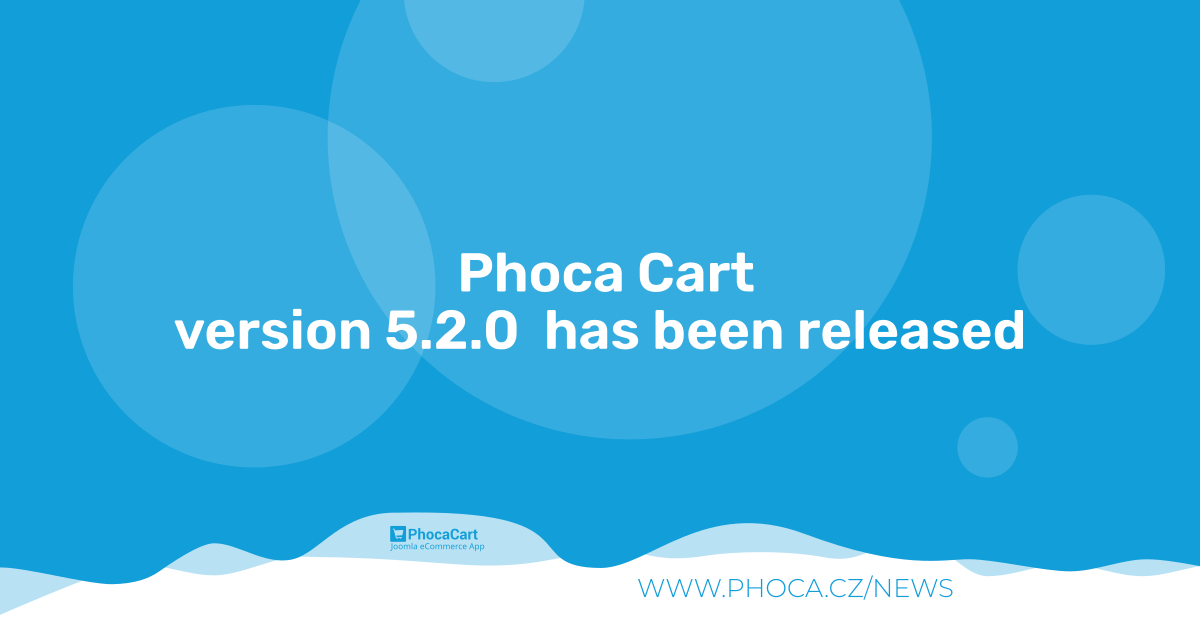
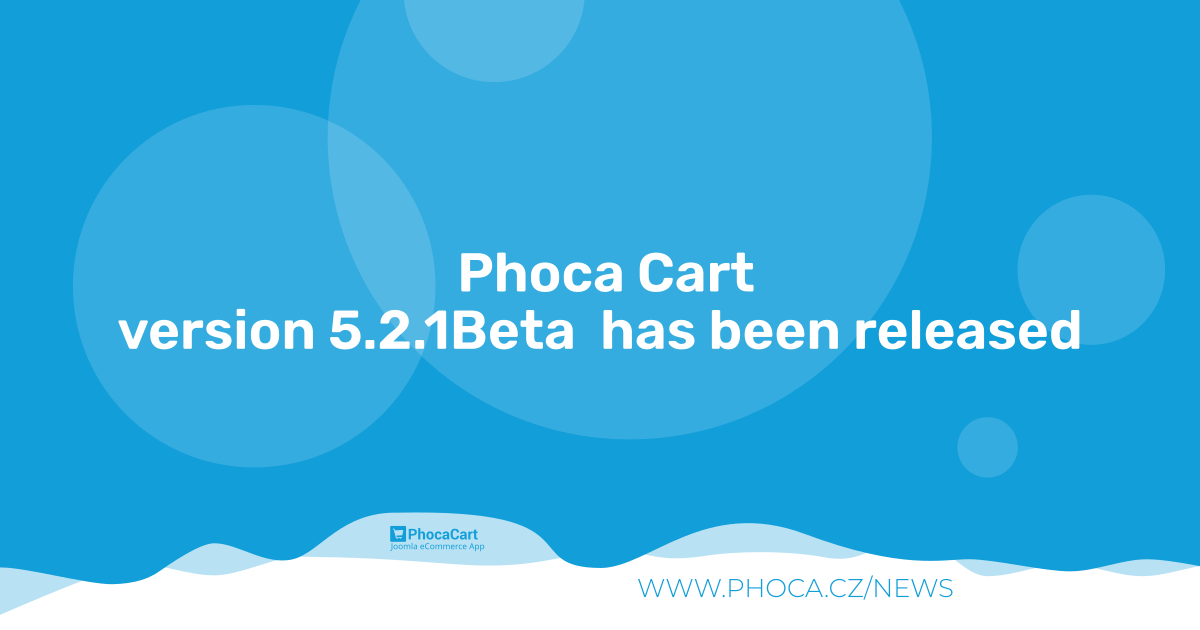
5.2.1Beta

Changed region(s): [[0.0925, 0.4825, 0.925, 0.573]]

diff --git a/media/js/phoca/jquery.phocaswapimage.js b/media/js/phoca/jquery.phocaswapimage.js
@@ -15,7 +15,7 @@ jQuery(document).ready(function() {
 		var phProductIdName	= jQuery(this).data('product-id-name');
 		var phProductImg	= '.phjProductImage' + phProductIdName;
 		var phProductSource	= '.phjProductSource' + phProductIdName;// Webp source
-		var phProductHref	= '.phjProductHref' + phProductIdName;
+		var phProductHref	= '.phjProductHref' + phProductIdName + '.phImageGalleryHref';//phImageGalleryHref diff large and small e.g. in Photoswipe
 
 		var phDefaultSrc 	= jQuery(phProductImg).data('image');// image includes data-image attribute
 		var phDefaultHref 	= jQuery(phProductHref).data('href');// image includes data-image attribute
@@ -50,16 +50,30 @@ jQuery(document).ready(function() {
 			jQuery(phProductHref).attr('href', phNewHref);
 			jQuery(phProductImg).attr('src', phNewSrc);
 			jQuery(phProductSource).attr('srcset', phNewSrc);//webp
+
+
+			jQuery(phProductHref).attr('data-href', phNewHref);
+			jQuery(phProductImg).attr('data-image', phNewSrc);
+			jQuery(phProductImg).attr('data-image-large', phNewSrc);
+
 		} else if (!phNewSrc && phSelectedSrc) {
 			// New image not found but there is some selected image yet (e.g. selected previously in other select box)
 			jQuery(phProductHref).attr('href', phSelectedHref);
 			jQuery(phProductImg).attr('src', phSelectedSrc);
 			jQuery(phProductSource).attr('srcset', phSelectedSrc);//webp
+
+			jQuery(phProductHref).attr('data-href', phSelectedHref);
+			jQuery(phProductImg).attr('data-image', phSelectedSrc);
+			jQuery(phProductImg).attr('data-image-large', phSelectedSrc);
 		} else {
 			// Return back to default image (no new image, no selected image by other select box)
 			jQuery(phProductHref).attr('href', phDefaultHref);
 			jQuery(phProductImg).attr('src', phDefaultSrc);
 			jQuery(phProductSource).attr('srcset', phDefaultSrc);//webp
+
+			jQuery(phProductHref).attr('data-href', phDefaultHref);
+			jQuery(phProductImg).attr('data-image', phDefaultSrc);
+			jQuery(phProductImg).attr('data-image-large', phDefaultSrc);
 		}
 
 	})

diff --git a/media/js/phoca/jquery.phocaswapimage.min.js b/media/js/phoca/jquery.phocaswapimage.min.js
@@ -1,1 +1,1 @@
-jQuery(document).ready(function(){jQuery(document).on("change",".phjProductAttribute",function(){var t=jQuery(this).data("product-id-name"),r=".phjProductImage"+t,e=".phjProductSource"+t,t=".phjProductHref"+t,u=jQuery(r).data("image"),a=jQuery(t).data("href"),c=jQuery(this).find(":selected,:checked").data("image-option"),d=!1,j=(jQuery(this).closest("form").find(".phjProductAttribute").each(function(){var t=jQuery(this).find(":selected,:checked").data("image-option");t&&(d=t)}),c),o=d;c?(jQuery(t).attr("href",j),jQuery(r).attr("src",c),jQuery(e).attr("srcset",c)):!c&&d?(jQuery(t).attr("href",o),jQuery(r).attr("src",d),jQuery(e).attr("srcset",d)):(jQuery(t).attr("href",a),jQuery(r).attr("src",u),jQuery(e).attr("srcset",u))})});
+jQuery(document).ready(function(){jQuery(document).on("change",".phjProductAttribute",function(){var t=jQuery(this).data("product-id-name"),r=".phjProductImage"+t,e=".phjProductSource"+t,t=".phjProductHref"+t+".phImageGalleryHref",a=jQuery(r).data("image"),u=jQuery(t).data("href"),d=jQuery(this).find(":selected,:checked").data("image-option"),j=!1,y=(jQuery(this).closest("form").find(".phjProductAttribute").each(function(){var t=jQuery(this).find(":selected,:checked").data("image-option");t&&(j=t)}),d),c=j;d?(jQuery(t).attr("href",y),jQuery(r).attr("src",d),jQuery(e).attr("srcset",d),jQuery(t).attr("data-href",y),jQuery(r).attr("data-image",d),jQuery(r).attr("data-image-large",d)):!d&&j?(jQuery(t).attr("href",c),jQuery(r).attr("src",j),jQuery(e).attr("srcset",j),jQuery(t).attr("data-href",c),jQuery(r).attr("data-image",j),jQuery(r).attr("data-image-large",j)):(jQuery(t).attr("href",u),jQuery(r).attr("src",a),jQuery(e).attr("srcset",a),jQuery(t).attr("data-href",u),jQuery(r).attr("data-image",a),jQuery(r).attr("data-image-large",a))})});

diff --git a/media/css/main.css b/media/css/main.css
@@ -2394,7 +2394,8 @@ img.ph-lazyload:not([src]) {
     stroke: #f5f5f5;
 }
 .btn.btn-secondary .pc-si {
-    stroke: #5f5f5f;
+    /*stroke: #5f5f5f;*/
+    stroke: currentColor;
 }
 
 .pc-si-ok-circle {

diff --git a/site/views/item/tmpl/default.php b/site/views/item/tmpl/default.php
@@ -187,7 +187,7 @@ if (!empty($x) && isset($x->id) && (int)$x->id > 0) {
 			if ($this->t['display_webp_images'] == 1) {
 				$linkS = Uri::base(true) . '/' . $imageS->rel_webp;
 			}
-			echo '<a href="' . $link . '" ' . $this->t['image_rel'] . ' class="' . $this->t['image_class'] . ' phjProductHref' . $idName . ' phImageFullHref" data-href="' . $link . '" data-href-s="' . $linkS . '">';
+			echo '<a href="' . $link . '" ' . $this->t['image_rel'] . ' class="' . $this->t['image_class'] . ' phjProductHref' . $idName . ' phImageFullHref phImageGalleryHref" data-href="' . $link . '" data-href-s="' . $linkS . '">';
 
 			$d = array();
 			$d['t'] = $this->t;
@@ -668,9 +668,12 @@ if (!empty($x) && isset($x->id) && (int)$x->id > 0) {
 	$tabO	= '';
 	$tabLiO	= '';
 
+
 	// DESCRIPTION
 	if (isset($x->description_long) && $x->description_long != '') {
-		$tabLiO .= '<li class="'.$this->s['c']['nav-item'].' '.$activeTab.'"><a href="#phdescription" data-bs-toggle="tab" class="'.$this->s['c']['nav-link'].' '.$active.'">'.Text::_('COM_PHOCACART_DESCRIPTION').'</a></li>';
+
+        $tabAnchor = $this->s['c']['class-type'] == 'uikit' ? '#' : '#phdescription';
+		$tabLiO .= '<li class="'.$this->s['c']['nav-item'].' '.$activeTab.'"><a href="'.$tabAnchor.'" data-bs-toggle="tab" class="'.$this->s['c']['nav-link'].' '.$active.'">'.Text::_('COM_PHOCACART_DESCRIPTION').'</a></li>';
 
 		$tabO 	.= '<div class="'.$this->s['c']['tabpane'].' ph-tab-pane '.$active.'" id="phdescription">';
 		$tabO	.= HTMLHelper::_('content.prepare', $x->description_long);
@@ -680,7 +683,8 @@ if (!empty($x) && isset($x->id) && (int)$x->id > 0) {
 
 	// FEATURES
 	if (isset($x->features) && $x->features != '') {
-		$tabLiO .= '<li class="'.$this->s['c']['nav-item'].' '.$activeTab.'"><a href="#phfeatures" data-bs-toggle="tab" class="'.$this->s['c']['nav-link'].' '.$active.'">'.Text::_('COM_PHOCACART_FEATURES').'</a></li>';
+        $tabAnchor = $this->s['c']['class-type'] == 'uikit' ? '#' : '#phfeatures';
+		$tabLiO .= '<li class="'.$this->s['c']['nav-item'].' '.$activeTab.'"><a href="'.$tabAnchor.'" data-bs-toggle="tab" class="'.$this->s['c']['nav-link'].' '.$active.'">'.Text::_('COM_PHOCACART_FEATURES').'</a></li>';
 
 		$tabO 	.= '<div class="'.$this->s['c']['tabpane'].' ph-tab-pane '.$active.'" id="phfeatures">';
 		$tabO	.= HTMLHelper::_('content.prepare', $x->features);
@@ -690,7 +694,8 @@ if (!empty($x) && isset($x->id) && (int)$x->id > 0) {
 
 	// VIDEO
 	if (isset($x->video) && $x->video != '') {
-		$tabLiO .= '<li class="'.$this->s['c']['nav-item'].' '.$activeTab.'"><a href="#phvideo" data-bs-toggle="tab" class="'.$this->s['c']['nav-link'].' '.$active.'">'.Text::_('COM_PHOCACART_VIDEO').'</a></li>';
+        $tabAnchor = $this->s['c']['class-type'] == 'uikit' ? '#' : '#phvideo';
+		$tabLiO .= '<li class="'.$this->s['c']['nav-item'].' '.$activeTab.'"><a href="'.$tabAnchor.'" data-bs-toggle="tab" class="'.$this->s['c']['nav-link'].' '.$active.'">'.Text::_('COM_PHOCACART_VIDEO').'</a></li>';
 
 		$tabO 	.= '<div class="'.$this->s['c']['tabpane'].' ph-tab-pane '.$active.'" id="phvideo">';
 		$tabO	.= PhocacartRenderFront::displayVideo($x->video);
@@ -700,7 +705,8 @@ if (!empty($x) && isset($x->id) && (int)$x->id > 0) {
 
 	// SPECIFICATION
 	if (!empty($this->t['specifications'])){
-		$tabLiO .= '<li class="'.$this->s['c']['nav-item'].' '.$activeTab.'"><a href="#phspecification" data-bs-toggle="tab" class="'.$this->s['c']['nav-link'].' '.$active.'">'.Text::_('COM_PHOCACART_SPECIFICATIONS').'</a></li>';
+        $tabAnchor = $this->s['c']['class-type'] == 'uikit' ? '#' : '#phspecification';
+		$tabLiO .= '<li class="'.$this->s['c']['nav-item'].' '.$activeTab.'"><a href="'.$tabAnchor.'" data-bs-toggle="tab" class="'.$this->s['c']['nav-link'].' '.$active.'">'.Text::_('COM_PHOCACART_SPECIFICATIONS').'</a></li>';
 		$tabO 	.= '<div class="'.$this->s['c']['tabpane'].' ph-tab-pane '.$active.'" id="phspecification">';
 
 
@@ -734,7 +740,8 @@ if (!empty($x) && isset($x->id) && (int)$x->id > 0) {
 
 	// REVIEWS
 	if ($this->t['enable_review'] > 0) {
-		$tabLiO .= '<li class="'.$this->s['c']['nav-item'].' '.$activeTab.'"><a href="#phreview" data-bs-toggle="tab" class="'.$this->s['c']['nav-link'].' '.$active.'">'.Text::_('COM_PHOCACART_REVIEWS').'</a></li>';
+        $tabAnchor = $this->s['c']['class-type'] == 'uikit' ? '#' : '#phreview';
+		$tabLiO .= '<li class="'.$this->s['c']['nav-item'].' '.$activeTab.'"><a href="'.$tabAnchor.'" data-bs-toggle="tab" class="'.$this->s['c']['nav-link'].' '.$active.'">'.Text::_('COM_PHOCACART_REVIEWS').'</a></li>';
 		$tabO 	.= '<div class="'.$this->s['c']['tabpane'].' ph-tab-pane '.$active.'" id="phreview">';
 
 		if (!empty($this->t['reviews'])) {
@@ -854,7 +861,8 @@ if (!empty($x) && isset($x->id) && (int)$x->id > 0) {
                 continue;
             }
 
-            $tabLiO .= '<li class="' . $this->s['c']['nav-item'] . ' ' . $activeTab . '"><a href="#phrelated-' . $relatedType->id . '" data-bs-toggle="tab" class="' . $this->s['c']['nav-link'] . ' ' . $active . '">' . Text::_($relatedType->title) . '</a></li>';
+            $tabAnchor = $this->s['c']['class-type'] == 'uikit' ? '#' : '#phrelated-' . $relatedType->id ;
+            $tabLiO .= '<li class="' . $this->s['c']['nav-item'] . ' ' . $activeTab . '"><a href="'. $tabAnchor . '" data-bs-toggle="tab" class="' . $this->s['c']['nav-link'] . ' ' . $active . '">' . Text::_($relatedType->title) . '</a></li>';
 
             $tabO .= '<div class="' . $this->s['c']['tabpane'] . ' ph-tab-pane ' . $active . '" id="phrelated-' . $relatedType->id . '">';
 
@@ -938,7 +946,8 @@ if (!empty($x) && isset($x->id) && (int)$x->id > 0) {
 
 	// PRICE HISTORY
 	if ($this->t['enable_price_history'] && $this->t['price_history_data']) {
-		$tabLiO .= '<li class="'.$this->s['c']['nav-item'].' '.$activeTab.'"><a href="#phpricehistory" data-bs-toggle="tab" class="'.$this->s['c']['nav-link'].' '.$active.'">'.Text::_('COM_PHOCACART_PRICE_HISTORY').'</a></li>';
+        $tabAnchor = $this->s['c']['class-type'] == 'uikit' ? '#' : '#phpricehistory';
+		$tabLiO .= '<li class="'.$this->s['c']['nav-item'].' '.$activeTab.'"><a href="'.$tabAnchor.'" data-bs-toggle="tab" class="'.$this->s['c']['nav-link'].' '.$active.'">'.Text::_('COM_PHOCACART_PRICE_HISTORY').'</a></li>';
 
 		$tabO 	.= '<div class="'.$this->s['c']['tabpane'].' ph-tab-pane '.$active.'" id="phpricehistory">';
 		$tabO	.= '<div class="'.$this->s['c']['row'].'">';
@@ -962,7 +971,8 @@ if (!empty($x) && isset($x->id) && (int)$x->id > 0) {
         $alias = 'field-' . $fieldsGroup->id;
         $title = $fieldsGroup->title ?: Text::_('COM_PHOCACART_PRODUCT_CUSTOM_FIELDS');
 
-        $tabLiO .= '<li class="' . $this->s['c']['nav-item'] . ' ' . $activeTab.'"><a href="#' . $alias . '" data-bs-toggle="tab" class="' . $this->s['c']['nav-link'] . ' ' . $active . '">' . $title . '</a></li>';
+        $tabAnchor = $this->s['c']['class-type'] == 'uikit' ? '#' : '#' . $alias;
+        $tabLiO .= '<li class="' . $this->s['c']['nav-item'] . ' ' . $activeTab.'"><a href="'.$tabAnchor. '" data-bs-toggle="tab" class="' . $this->s['c']['nav-link'] . ' ' . $active . '">' . $title . '</a></li>';
         $tabO 	.= '<div class="' . $this->s['c']['tabpane'] . ' ph-tab-pane ' . $active . '" id="' . $alias . '">';
         $tabO	.= '<div class="' . $this->s['c']['row'] . '">';
         foreach ($fieldsGroup->fields as $field) {
@@ -985,7 +995,8 @@ if (!empty($x) && isset($x->id) && (int)$x->id > 0) {
 	if (!empty($this->t['event']->onItemInsideTabPanel) && is_array($this->t['event']->onItemInsideTabPanel)) {
 		foreach($this->t['event']->onItemInsideTabPanel as $k => $v) {
 			if (isset($v['title']) && isset($v['alias']) && isset($v['content'])) {
-				$tabLiO .= '<li class="'.$this->s['c']['nav-item'].' '.$activeTab.'"><a href="#'.strip_tags($v['alias']).'" data-bs-toggle="tab" class="'.$this->s['c']['nav-link'].' '.$active.'">'.$v['title'].'</a></li>';
+                $tabAnchor = $this->s['c']['class-type'] == 'uikit' ? '#' : '#'.strip_tags($v['alias']);
+				$tabLiO .= '<li class="'.$this->s['c']['nav-item'].' '.$activeTab.'"><a href="'.$tabAnchor.'" data-bs-toggle="tab" class="'.$this->s['c']['nav-link'].' '.$active.'">'.$v['title'].'</a></li>';
 				$tabO 	.= '<div class="'.$this->s['c']['tabpane'].' ph-tab-pane '.$active.'" id="'.strip_tags($v['alias']).'">';
 				$tabO	.= $v['content'];
 				$tabO	.= '</div>';

diff --git a/admin/models/fields/phocacartorderstatus.php b/admin/models/fields/phocacartorderstatus.php
@@ -36,14 +36,14 @@ class JFormFieldPhocacartOrderstatus extends ListField
 
         if ($this->multiple) {
             $options = array_merge([
-                (object)['value' => 0, 'text' => 'COM_PHOCACART_NONE'],
-                (object)['value' => -1, 'text' => 'COM_PHOCACART_ALL'],
+                (object)['value' => 0, 'text' => Text::_('COM_PHOCACART_NONE')],
+                (object)['value' => -1, 'text' => Text::_('COM_PHOCACART_ALL')],
             ], $options);
         } else {
             $type = $this->element['typemethod'] ?? 0;
             if ($type == 1) {
                 $options = array_merge([
-                    (object)['value' => 0, 'text' => 'COM_PHOCACART_NONE'],
+                    (object)['value' => 0, 'text' => Text::_('COM_PHOCACART_NONE')],
                 ], $options);
             } else if ($type == 2) {
                 $options = array_merge([

diff --git a/site/views/submit/view.html.php b/site/views/submit/view.html.php
@@ -123,7 +123,7 @@ class PhocaCartViewSubmit extends HtmlView
 
 				$document->addCustomTag("<style type=\"text/css\"> \n"
 					. " #ph-pc-question-box {
-					margin: 20px
+					padding: 1em; margin: 0;
 				} \n"
 					. " </style> \n");
 			}

diff --git a/site/views/question/view.html.php b/site/views/question/view.html.php
@@ -109,7 +109,7 @@ class PhocaCartViewQuestion extends HtmlView
 
 			$document->addCustomTag( "<style type=\"text/css\"> \n"
 			." #ph-pc-question-box {
-				margin: 20px
+				padding: 1em; margin: 0;
 			} \n"
 			." </style> \n");
 		}

diff --git a/README.MD b/README.MD
@@ -132,7 +132,7 @@ Phoca Cart is e-commerce extension - powerful shopping cart for Joomla! CMS. Pho
 
 ## Version (Joomla! 5.x)
 
-5.2.0
+5.2.1Beta
 
 
 
